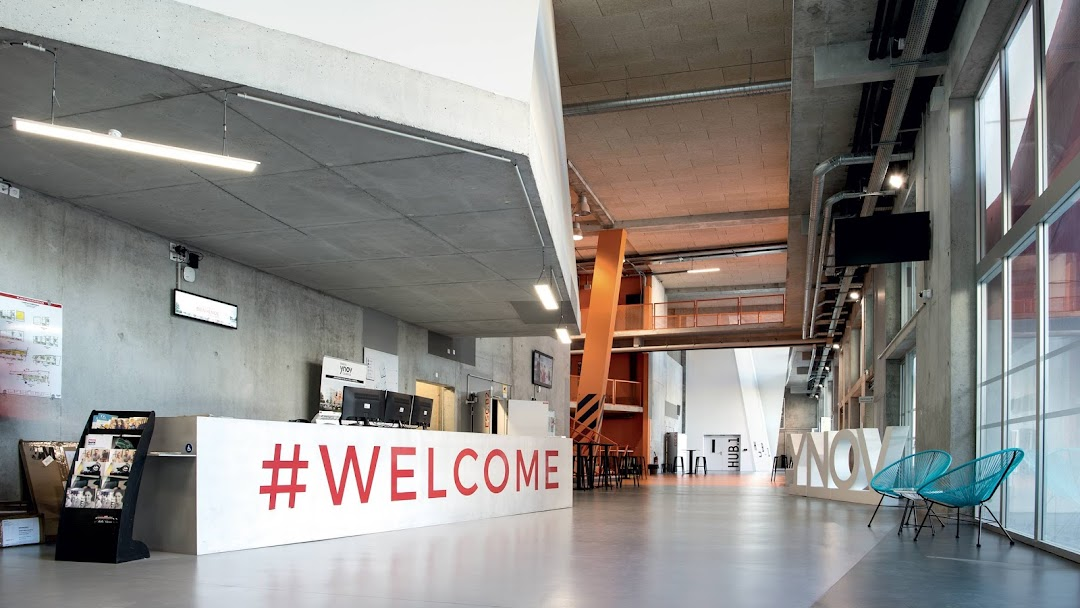
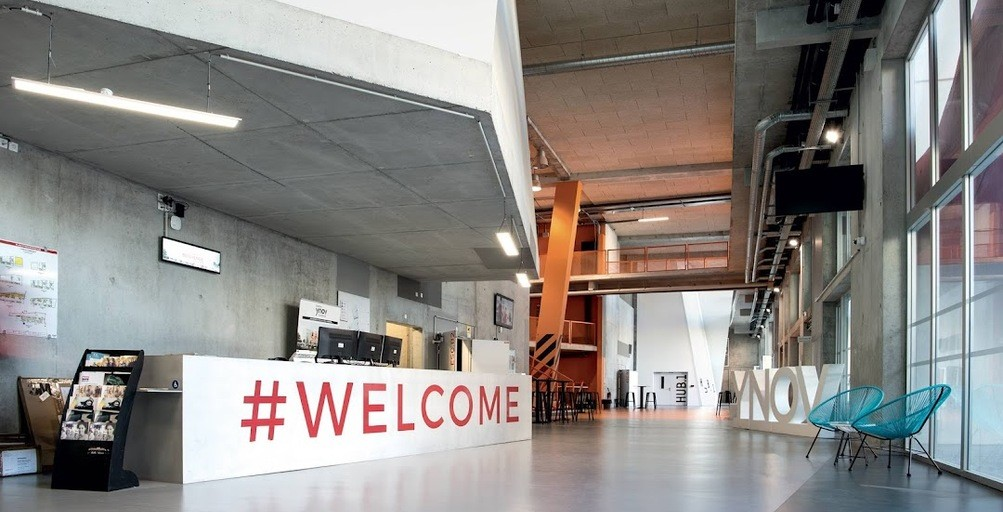
UPDATE orga photo

diff --git a/index.html b/index.html
@@ -87,7 +87,7 @@
       <div id="header-carousel" class="carousel slide carousel-fade" data-bs-ride="carousel">
         <div class="carousel-inner">
           <div class="carousel-item active">
-            <img class="w-100" src="img/ynovhall_copie.jpg" alt="Image" />
+            <img class="w-100" src="img/ynovhall.jpg" alt="Image" />
             <div
               class="carousel-caption d-flex flex-column align-items-center justify-content-center"
             >
@@ -99,7 +99,7 @@
             </div>
           </div>
           <div class="carousel-item">
-            <img class="w-100" src="img/imagedefamille_copie.jpg" alt="Image" />
+            <img class="w-100" src="img/imagedefamille.jpg" alt="Image" />
             <div
               class="carousel-caption d-flex flex-column align-items-center justify-content-center"
             >
@@ -492,26 +492,6 @@
       </div>
     </div>
     <!-- Team End -->
-
-    <!-- Vendor Start -->
-    <div class="container-fluid py-5 wow fadeInUp" data-wow-delay="0.1s">
-      <div class="container py-5 mb-5">
-        <div class="bg-white">
-          <div class="owl-carousel vendor-carousel">
-            <img src="img/vendor-1.jpg" alt="" />
-            <img src="img/vendor-2.jpg" alt="" />
-            <img src="img/vendor-3.jpg" alt="" />
-            <img src="img/vendor-4.jpg" alt="" />
-            <img src="img/vendor-5.jpg" alt="" />
-            <img src="img/vendor-6.jpg" alt="" />
-            <img src="img/vendor-7.jpg" alt="" />
-            <img src="img/vendor-8.jpg" alt="" />
-            <img src="img/vendor-9.jpg" alt="" />
-          </div>
-        </div>
-      </div>
-    </div>
-    <!-- Vendor End -->
 
     <!-- Footer Start -->
     <div

diff --git a/service.html b/service.html
@@ -62,7 +62,7 @@
                   <a href="contact.html" class="nav-item nav-link h-25 text-dark">Contact</a>
                 </div>
                 <!-- <butaton type="button" class="btn text-primary ms-3" data-bs-toggle="modal" data-bs-target="#searchModal"><i class="fa fa-search"></i></butaton> -->
-                <a href="doc/Livret de prestations.pdf" download targer="link" class="btn btn-primary mt-md-4 mt-lg-1 py-2 px-4 ms-3">Telecharger la brochure</a>
+                <a href="doc/Livret de prestations.pdf" target="link" class="btn btn-primary mt-md-4 mt-lg-1 py-2 px-4 ms-3">Telecharger la brochure</a>
             </div>
         </nav>
 
@@ -334,29 +334,7 @@
         </div>
       </div>
     </div>
-    <!-- Testimonial End -->
-
-
-    <!-- Vendor Start -->
-    <div class="container-fluid py-5 wow fadeInUp" data-wow-delay="0.1s">
-        <div class="container py-5 mb-5">
-            <div class="bg-white">
-                <div class="owl-carousel vendor-carousel">
-                    <img src="img/vendor-1.jpg" alt="">
-                    <img src="img/vendor-2.jpg" alt="">
-                    <img src="img/vendor-3.jpg" alt="">
-                    <img src="img/vendor-4.jpg" alt="">
-                    <img src="img/vendor-5.jpg" alt="">
-                    <img src="img/vendor-6.jpg" alt="">
-                    <img src="img/vendor-7.jpg" alt="">
-                    <img src="img/vendor-8.jpg" alt="">
-                    <img src="img/vendor-9.jpg" alt="">
-                </div>
-            </div>
-        </div>
-    </div>
-    <!-- Vendor End -->
-    
+    <!-- Testimonial End -->    
 
     <!-- Footer Start -->
     <div

diff --git a/quote.html b/quote.html
@@ -165,29 +165,7 @@
             </div>
         </div>
     </div>
-    <!-- Quote End -->
-
-
-    <!-- Vendor Start -->
-    <div class="container-fluid py-5 wow fadeInUp" data-wow-delay="0.1s">
-        <div class="container py-5 mb-5">
-            <div class="bg-white">
-                <div class="owl-carousel vendor-carousel">
-                    <img src="img/vendor-1.jpg" alt="">
-                    <img src="img/vendor-2.jpg" alt="">
-                    <img src="img/vendor-3.jpg" alt="">
-                    <img src="img/vendor-4.jpg" alt="">
-                    <img src="img/vendor-5.jpg" alt="">
-                    <img src="img/vendor-6.jpg" alt="">
-                    <img src="img/vendor-7.jpg" alt="">
-                    <img src="img/vendor-8.jpg" alt="">
-                    <img src="img/vendor-9.jpg" alt="">
-                </div>
-            </div>
-        </div>
-    </div>
-    <!-- Vendor End -->
-    
+    <!-- Quote End -->    
 
     <!-- Footer Start -->
     <div class="container-fluid bg-dark text-light mt-5 wow fadeInUp" data-wow-delay="0.1s">

diff --git a/about.html b/about.html
@@ -432,27 +432,6 @@
     <!-- Team End -->
 
 
-    <!-- Vendor Start -->
-    <div class="container-fluid py-5 wow fadeInUp" data-wow-delay="0.1s">
-        <div class="container py-5 mb-5">
-            <div class="bg-white">
-                <div class="owl-carousel vendor-carousel">
-                    <img src="img/vendor-1.jpg" alt="">
-                    <img src="img/vendor-2.jpg" alt="">
-                    <img src="img/vendor-3.jpg" alt="">
-                    <img src="img/vendor-4.jpg" alt="">
-                    <img src="img/vendor-5.jpg" alt="">
-                    <img src="img/vendor-6.jpg" alt="">
-                    <img src="img/vendor-7.jpg" alt="">
-                    <img src="img/vendor-8.jpg" alt="">
-                    <img src="img/vendor-9.jpg" alt="">
-                </div>
-            </div>
-        </div>
-    </div>
-    <!-- Vendor End -->
-
-
     <!-- Footer Start -->
     <div
     class="container-fluid bg-dark text-light mt-5 wow fadeInUp"

diff --git a/contact.html b/contact.html
@@ -182,26 +182,6 @@
     </div>
     <!-- Contact End -->
 
-    <!-- Vendor Start -->
-    <div class="container-fluid py-5 wow fadeInUp" data-wow-delay="0.1s">
-      <div class="container py-5 mb-5">
-        <div class="bg-white">
-          <div class="owl-carousel vendor-carousel">
-            <img src="img/vendor-1.jpg" alt="" />
-            <img src="img/vendor-2.jpg" alt="" />
-            <img src="img/vendor-3.jpg" alt="" />
-            <img src="img/vendor-4.jpg" alt="" />
-            <img src="img/vendor-5.jpg" alt="" />
-            <img src="img/vendor-6.jpg" alt="" />
-            <img src="img/vendor-7.jpg" alt="" />
-            <img src="img/vendor-8.jpg" alt="" />
-            <img src="img/vendor-9.jpg" alt="" />
-          </div>
-        </div>
-      </div>
-    </div>
-    <!-- Vendor End -->
-
     <!-- Footer Start -->
     <div
       class="container-fluid bg-dark text-light mt-5 wow fadeInUp"
